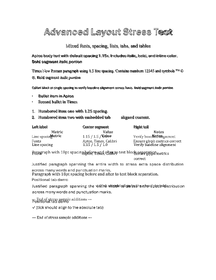
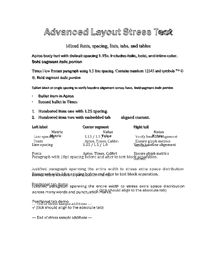
Tabelle: default tblCellMar Word (L/R 108 twips ≈5.4pt). Rigenerato layout-stress diff.

Changed region(s): [[0.1389, 0.4571, 0.8611, 0.7429], [0.4444, 0.6571, 0.7778, 0.6857]]

diff --git a/out/diff-layout-stress/index.html b/out/diff-layout-stress/index.html
@@ -65,8 +65,8 @@ details summary{cursor:pointer;font-weight:600}
 <article class="summary-card"><div>Candidate</div><div style="font-size:1.1rem;font-weight:600">/Users/politom/Documents/Workspace/personal/DocxToPdf/out/layout-stress.pdf</div></article>
 <article class="summary-card"><div>DPI</div><div style="font-size:1.1rem;font-weight:600">300</div></article>
 <article class="summary-card"><div>Pages Compared</div><div style="font-size:1.1rem;font-weight:600">1</div></article>
-<article class="summary-card"><div>Total AE Pixels</div><div style="font-size:1.1rem;font-weight:600">425522</div></article>
-<article class="summary-card"><div>Weighted AE %</div><div style="font-size:1.1rem;font-weight:600">5,056708</div></article>
+<article class="summary-card"><div>Total AE Pixels</div><div style="font-size:1.1rem;font-weight:600">425655</div></article>
+<article class="summary-card"><div>Weighted AE %</div><div style="font-size:1.1rem;font-weight:600">5,058289</div></article>
 <article class="summary-card"><div>Consistent pages</div><div style="font-size:1.1rem;font-weight:600">1</div></article>
 <article class="summary-card"><div>Engine-only pages</div><div style="font-size:1.1rem;font-weight:600">0</div></article>
 <article class="summary-card"><div>Clean pages</div><div style="font-size:1.1rem;font-weight:600">0</div></article>
@@ -78,7 +78,7 @@ details summary{cursor:pointer;font-weight:600}
 <li>Fuzz: none | CropBox: disabled</li>
 <li>Thresholds → warning AE% ≤ 0.005, warning SSIM ≥ 0.995</li>
 <li>ImageMagick: Version: ImageMagick 7.1.2-8 Q16-HDRI aarch64 23412 https://imagemagick.org</li>
-<li>Generated at: 2025-11-12 09:27:43Z</li>
+<li>Generated at: 2025-11-12 09:29:47Z</li>
 <li>Geometry check (<span class="status-Fail">FAIL</span>) tolerance ±0,250 pt</li>
 </ul>
 <div class="filters">
@@ -89,8 +89,8 @@ details summary{cursor:pointer;font-weight:600}
 <table>
 <thead><tr><th>Page</th><th>Diff type</th><th>Renderer</th><th>Status</th><th>Pixels (WxH)</th><th>AE</th><th>AE %</th><th>MAE</th><th>RMSE</th><th>PSNR</th><th>SSIM</th><th>DSSIM</th><th>Images</th></tr></thead>
 <tbody class="page-block" data-page="1" data-classification="Consistent">
-<tr><td rowspan="2">1</td><td rowspan="2"><span class="classification-badge classification-Consistent">Consistent</span></td><td>Poppler (pdftoppm)</td><td class="status-Fail">Fail</td><td>2550×3300</td><td>425522</td><td>5,056708</td><td>3,727260E-002</td><td>1,830180E-001</td><td>14.7501</td><td>0.943778</td><td>0.0562224</td><td><div class="thumbs"><figure><a href="poppler/A/page-0001.png" target="_blank" rel="noreferrer"><img src="poppler/thumbs/page-0001-A.png" alt="Baseline"/></a><figcaption>Baseline</figcaption></figure><figure><a href="poppler/B/page-0001.png" target="_blank" rel="noreferrer"><img src="poppler/thumbs/page-0001-B.png" alt="Candidate"/></a><figcaption>Candidate</figcaption></figure><figure><a href="poppler/diff/page-0001.png" target="_blank" rel="noreferrer"><img src="poppler/thumbs/page-0001-diff.png" alt="Diff"/></a><figcaption>Diff</figcaption></figure><figure><a href="poppler/overlay/page-0001.png" target="_blank" rel="noreferrer"><img src="poppler/thumbs/page-0001-overlay.png" alt="Overlay"/></a><figcaption>Overlay</figcaption></figure></div></td></tr>
-<tr><td>Ghostscript (magick)</td><td class="status-Fail">Fail</td><td>2550×3300</td><td>395789</td><td>4,703375</td><td>3,803600E-002</td><td>1,866230E-001</td><td>14.5807</td><td>0.943313</td><td>0.0566869</td><td><div class="thumbs"><figure><a href="ghostscript/A/page-0001.png" target="_blank" rel="noreferrer"><img src="ghostscript/thumbs/page-0001-A.png" alt="Baseline"/></a><figcaption>Baseline</figcaption></figure><figure><a href="ghostscript/B/page-0001.png" target="_blank" rel="noreferrer"><img src="ghostscript/thumbs/page-0001-B.png" alt="Candidate"/></a><figcaption>Candidate</figcaption></figure><figure><a href="ghostscript/diff/page-0001.png" target="_blank" rel="noreferrer"><img src="ghostscript/thumbs/page-0001-diff.png" alt="Diff"/></a><figcaption>Diff</figcaption></figure><figure><a href="ghostscript/overlay/page-0001.png" target="_blank" rel="noreferrer"><img src="ghostscript/thumbs/page-0001-overlay.png" alt="Overlay"/></a><figcaption>Overlay</figcaption></figure></div></td></tr>
+<tr><td rowspan="2">1</td><td rowspan="2"><span class="classification-badge classification-Consistent">Consistent</span></td><td>Poppler (pdftoppm)</td><td class="status-Fail">Fail</td><td>2550×3300</td><td>425655</td><td>5,058289</td><td>3,725790E-002</td><td>1,829740E-001</td><td>14.7522</td><td>0.943736</td><td>0.0562637</td><td><div class="thumbs"><figure><a href="poppler/A/page-0001.png" target="_blank" rel="noreferrer"><img src="poppler/thumbs/page-0001-A.png" alt="Baseline"/></a><figcaption>Baseline</figcaption></figure><figure><a href="poppler/B/page-0001.png" target="_blank" rel="noreferrer"><img src="poppler/thumbs/page-0001-B.png" alt="Candidate"/></a><figcaption>Candidate</figcaption></figure><figure><a href="poppler/diff/page-0001.png" target="_blank" rel="noreferrer"><img src="poppler/thumbs/page-0001-diff.png" alt="Diff"/></a><figcaption>Diff</figcaption></figure><figure><a href="poppler/overlay/page-0001.png" target="_blank" rel="noreferrer"><img src="poppler/thumbs/page-0001-overlay.png" alt="Overlay"/></a><figcaption>Overlay</figcaption></figure></div></td></tr>
+<tr><td>Ghostscript (magick)</td><td class="status-Fail">Fail</td><td>2550×3300</td><td>395482</td><td>4,699727</td><td>3,800100E-002</td><td>1,865290E-001</td><td>14.5851</td><td>0.943343</td><td>0.0566573</td><td><div class="thumbs"><figure><a href="ghostscript/A/page-0001.png" target="_blank" rel="noreferrer"><img src="ghostscript/thumbs/page-0001-A.png" alt="Baseline"/></a><figcaption>Baseline</figcaption></figure><figure><a href="ghostscript/B/page-0001.png" target="_blank" rel="noreferrer"><img src="ghostscript/thumbs/page-0001-B.png" alt="Candidate"/></a><figcaption>Candidate</figcaption></figure><figure><a href="ghostscript/diff/page-0001.png" target="_blank" rel="noreferrer"><img src="ghostscript/thumbs/page-0001-diff.png" alt="Diff"/></a><figcaption>Diff</figcaption></figure><figure><a href="ghostscript/overlay/page-0001.png" target="_blank" rel="noreferrer"><img src="ghostscript/thumbs/page-0001-overlay.png" alt="Overlay"/></a><figcaption>Overlay</figcaption></figure></div></td></tr>
 </tbody>
 </table>
 <section class="geometry-section">

diff --git a/DocxToPdf.Sdk/Docx/DocxTable.cs b/DocxToPdf.Sdk/Docx/DocxTable.cs
@@ -314,7 +314,8 @@ internal sealed record TablePreferredWidth(TableWidthUnit Unit, int Value)
 
 internal sealed record TablePadding(float Top, float Right, float Bottom, float Left)
 {
-    public static readonly TablePadding Default = new(0f, 0f, 0f, 0f);
+    // Word default cell margins (tblCellMar default): Left/Right = 108 twips (≈5.4pt), Top/Bottom = 0
+    public static readonly TablePadding Default = new(0f, 5.4f, 0f, 5.4f);
 
     public TablePadding ApplyOverride(TablePaddingOverride? overridePadding)
     {
